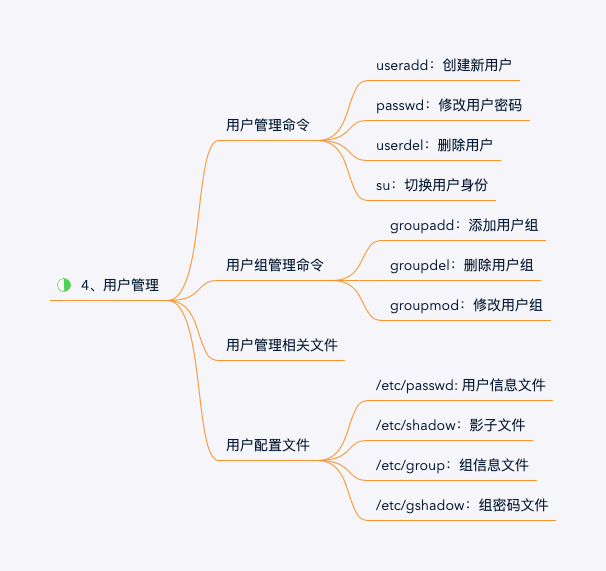
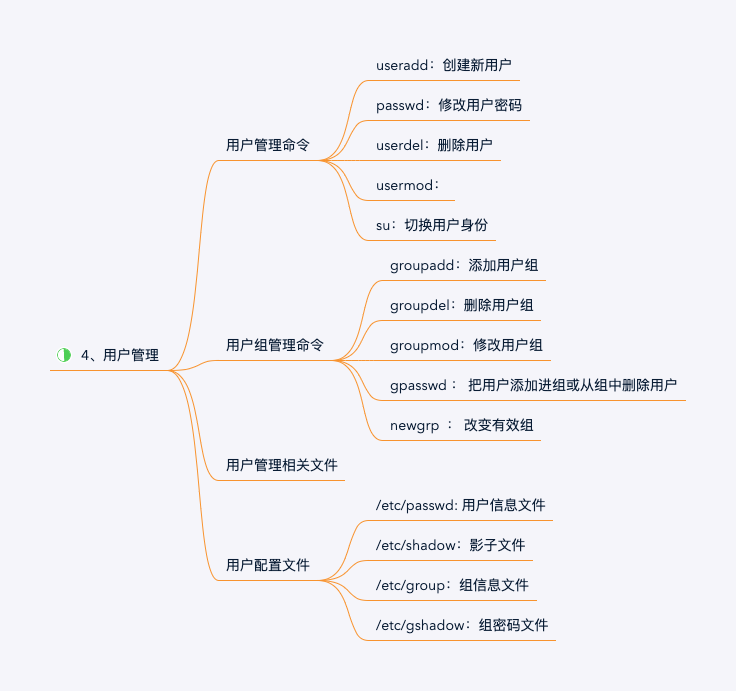
update 用户和用管理v1.0

diff --git a/Linux/01-Linux-基础内容/04用户和用户组管理.md b/Linux/01-Linux-基础内容/04用户和用户组管理.md
@@ -97,7 +97,7 @@ paulvim:x:1000:1001::/home/paulvim:/bin/bash
 **格式**
 
 ```shell
-    [root @ ~]# su [选项] [用户名]
+[root @ ~]# su [选项] [用户名]
 ```
 
 **选项&参数**
@@ -114,6 +114,39 @@ paulvim:x:1000:1001::/home/paulvim:/bin/bash
 ```shell
 [root @~]# su paul
 #由root用户切换到Paul用户，此时无需密码，使用的是root的用户环境变量。
+```
+
+### 5. usermod - 修改用户信息 ###
+
+**格式**
+
+```shell
+[root @ ~]# usermod [参数] 
+```
+
+**选项&参数**
+
+- `-d` <登入目录>	 修改用户登入时的目录. 必须写绝对路径。
+- `-g` <群组>		修改用户所属的群组。修改/etc/passwd文件信息。
+- `-G` <群组>		修改用户所属的附加群组
+- `-l` <账号名称>	 修改用户账号名称
+
+**说明**
+
+- usermod命令用于修改用户账号
+- usermod可用来修改用户账号的各项设定，修改系统账号文件来反映通过命令行指定的变化
+
+**示例**
+
+```shell
+[paul@centos7 ~]$ more /etc/passwd | grep paulvim
+pvim:x:1000:1001::/home/paulvim:/bin/bash
+
+[paul@centos7 ~]$ sudo usermod -l paulvim pvim
+
+[paul@centos7 ~]$ more /etc/passwd | grep paulvim
+paulvim:x:1000:1001::/home/paulvim:/bin/bash
+
 ```
 
 ## 二、用户组管理命令 ##
@@ -133,6 +166,7 @@ paulvim:x:1000:1001::/home/paulvim:/bin/bash
 **说明**
 
 - 创建一个新的工作组，信息将写入到/etc/group系统文件中。
+- 1-499系统预留的编号,预留给安装的软件和服务的;用户手动创建的用户组从500开始。
 
 **示例**
 
@@ -142,29 +176,111 @@ paulvim:x:1000:1001::/home/paulvim:/bin/bash
 ```
 
 ### 2. groupdel - 删除用户组 ###
+
 **格式**
 
-
+```shell
+[root @ ~]# groupdel [参数] [组名]
+```
 **选项&参数**
 
+- `-R`	在chroot_dir目录中应用更改并使用chroot_dir目录中的配置文件
 
 **说明**
 
-
-**示例**
+- 命令用来删除用户组;
+- 本命令将对/etc/group 和 /etc/gshadow进行修改。
+- 若用户组中，仍包含用户则需要先删除用户再执行该命令。
 
 ### 3. groupmod - 修改用户组 ###
 
 **格式**
 
+```shell
+[root @ ~]# groupmod [参数&选项] [组名]
+```
 
 **选项&参数**
 
+- `-g` GID: 修改组ID
+- `-n` 新组名，修改组名
 
 **说明**
 
+- 命令用来修改已有组名信息（GID、组名等）
+- 会对/etc/group中系统数据进行相应修改。
 
 **示例**
+
+```shell
+#修改paulvim名称为pvim。注意GID是没有变化。
+[paul@centos7 ~]$ grep paulvim /etc/group
+paulvim:x:1001:
+
+[paul@centos7 ~]$ sudo groupmod -n pvim paulvim
+
+[paul@centos7 ~]$ grep paulvim /etc/group
+[paul@centos7 ~]$ grep pvim /etc/group
+pvim:x:1001:
+
+```
+
+### 4. gpasswd - 把用户添加进组或从组中删除用户 ###
+
+**格式**
+```shell
+[root @ ~]# gpasswd [参数&选项] [组名]
+```
+
+**选项&参数**
+
+- `-a` 用户名：把用户加入组
+- `-d` 用户名：把用户从组删除
+
+**说明**
+
+- gpasswd命令将对/etc/group 和 /etc/gshadow进行修改；
+- gpasswd命令用来修改群组命令、添加用户到组、从组删除用户等
+- usermod操作对象是用户，把用户名作为参数放在最后；gpasswd命令操作对象是组，把组名放在最后。
+
+**示例**
+```shell
+paul@centos7 ~]$ more /etc/group | grep paul
+root:x:0:paul
+paul:x:1000:
+
+#将用户paulvim加入到paul组
+[paul@centos7 ~]$ sudo gpasswd -a paulvim paul
+Adding user paulvim to group paul
+
+#查看paul组信息
+[paul@centos7 ~]$ more /etc/group | grep paul
+root:x:0:paul
+paul:x:1000:paulvim
+```
+
+### 5. newgrp - 改变有效组 ###
+
+**格式**
+```shell
+[root @ ~]# newgrp [组名]
+```
+
+**说明**
+
+- 单一用户要同时隶属多个群组，需利用交替用户的设置。若不指定群组名称，则newgrp指令会登入该用户名称的预设群组。
+- 通过newgrp切换用户组后，该用户下新建的文件后，所属群组将为切换后的”用户组“。例如：paul的初始组为paul，后加入root组。执行 newgrp root后，此时paul的用户组为root。
+
+**示例**
+
+```shell
+#paul的初始组为paul，后加入root组。执行 newgrp root后，此时paul的用户组为root。
+[paul@centos7 ~]$ newgrp root
+[paul@centos7 ~]$ vim test.vi
+[paul@centos7 ~]$ ll
+-rw-r--r--.  1 paul root         5 Apr 20 12:44 test.vi
+
+```
 
 ## 三、用户管理相关文件 ##
 
@@ -180,52 +296,63 @@ paulvim:x:1000:1001::/home/paulvim:/bin/bash
 
 ### 1. 用户信息文件:/etc/passwd ###
 
-		“:”作为分隔符，划分为7个字段
-		1、用户名：
-			Linux系统是通过用户ID（UID）来区分不同用户、分配用户权限的
-		2、密码标识
-			“x”代表的是密码标志，而不是真正的密码，真正的密码是保存在/etc/shadow文件中的
-		3、UID
-			0：超级用户UID
-			1～499：系统用户（伪用户）UID用户是不能登录系统的，而是用来运行系统或服务的
-			500～65535：普通用户UID
-		4、GID
-			用户的组ID（GID），也就是这个用户的初始组的标志号
-			所谓初始组，指用户一登录就立刻拥有这个用户组的相关权限
-			所谓附加组，指用户可以加入多个其他的用户组，并拥有这些组的权限
-		5、用户说明
-		6、家目录
-		7、登录之后的Shell
-			/bin/bash就代表这个用户拥有权限范围内的所有权限
+“:”作为分隔符，划分为7个字段
+- 1、用户名：
+	Linux系统是通过用户ID（UID）来区分不同用户、分配用户权限的
+	
+- 2、密码标识:
+	“x”代表的是密码标志，而不是真正的密码，真正的密码是保存在/etc/shadow文件中的
+	
+- 3、UID
+	- 0：超级用户UID
+	- 1～499：系统用户（伪用户）UID用户是不能登录系统的，而是用来运行系统或服务的
+	- 500～65535：普通用户UID
+- 4、GID
+	- 用户的组ID（GID），也就是这个用户的初始组的标志号
+	- 所谓初始组，指用户一登录就立刻拥有这个用户组的相关权限
+	- 所谓附加组，指用户可以加入多个其他的用户组，并拥有这些组的权限
+- 5、用户说明
+- 6、家目录
+- 7、登录之后的Shell
+	- /bin/bash就代表这个用户拥有权限范围内的所有权限
 
 ### 2. 影子文件:/etc/shadow ###
-		Linux系统把真正的加密密码串放置在影子文件/etc/shadow中，而影子文件的权限是000
-		使用“:”作为分隔符，划分为9个字段
-		1．用户名称
-		2．密码
-			目前Linux的密码采用的是SHA512散列加密算法，而原来采用的是MD5或DES加密算法
-			所有伪用户的密码都是“! !”或“*”，代表没有密码是不能登录的
-			可以在密码前人为地加入“!”或“*”改变加密值让密码暂时失效，使这个用户无法登录，达到暂时禁止用户登录的效果
-		3．密码最后一次修改日期
-			Linux更加习惯使用时间戳代表时间
-			以1970年1月1日作为标准时间，每过去一天时间戳加1
-		4．密码的两次修改间隔时间（和第三个字段相比）
-		5．密码的有效期（和第三个字段相比）
-		6．密码修改到期前的警告天数（和第五个字段相比）
-		7．密码过期后的宽限天数（和第五个字段相比）
-		8．账号失效时间
-		9．保留
+
+Linux系统把真正的加密密码串放置在影子文件/etc/shadow中，而影子文件的权限是000
+
+使用“:”作为分隔符，划分为9个字段
+- 1．用户名称
+- 2．密码
+
+	- 目前Linux的密码采用的是SHA512散列加密算法，而原来采用的是MD5或DES加密算法
+	- 所有伪用户的密码都是“! !”或“*”，代表没有密码是不能登录的
+	- 可以在密码前人为地加入“!”或“*”改变加密值让密码暂时失效，使这个用户无法登录，达到暂时禁止用户登录的效果
+- 3．密码最后一次修改日期
+	- Linux更加习惯使用时间戳代表时间
+	- 以1970年1月1日作为标准时间，每过去一天时间戳加1
+- 4．密码的两次修改间隔时间（和第三个字段相比）
+- 5．密码的有效期（和第三个字段相比）
+- 6．密码修改到期前的警告天数（和第五个字段相比）
+- 7．密码过期后的宽限天数（和第五个字段相比）
+- 8．账号失效时间
+- 9．保留
 
 ### 3. 组信息文件:/etc/group ###
-		用“:”作为分隔符，划分为4个字段
-		1．组名
-		2．组密码标志
-			用户组密码主要是用来指定组管理员的
-		3．组ID（GID）
-		4．组中的用户
+
+用“:”作为分隔符，划分为4个字段
+- 1．组名
+- 2．组密码标志
+	- 用户组密码主要是用来指定组管理员的
+- 3．组ID（GID）
+- 4．组中的用户
 
 ### 4.组密码文件:/etc/gshadow ###
 
 这个文件就是保存组密码的文件
 
-“:”作为分隔符，把文件划分为4个字段
+“:”作为分隔符，把文件划分为4个字段:
+
+- 1. 组名 第一个字段是这个用户的组名
+- 2. 组密码 实际加密的组密码
+- 3. 组管理员用户名 
+- 4. 组中的附加用户
